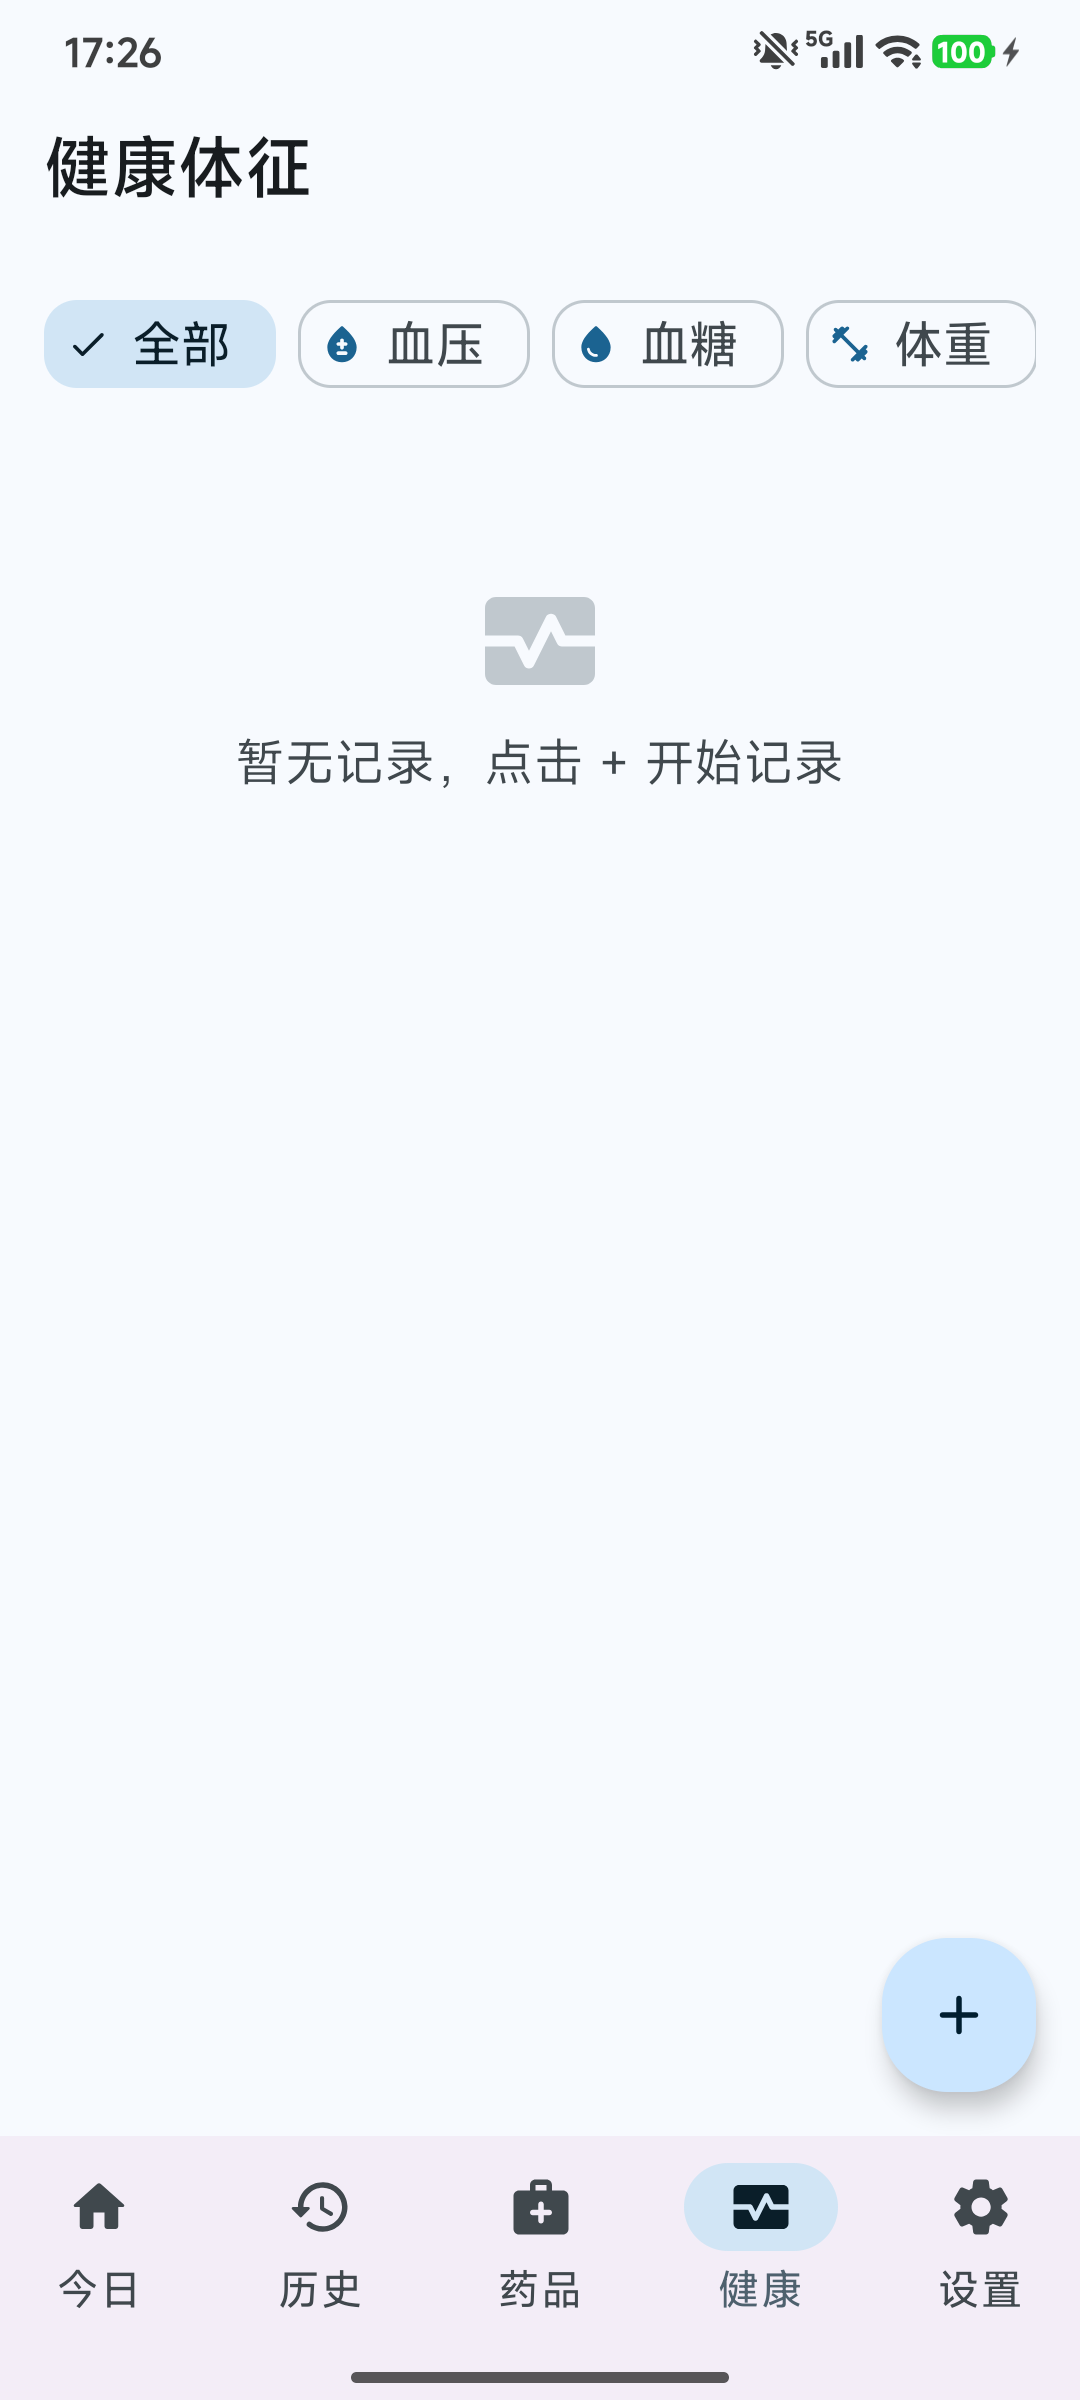
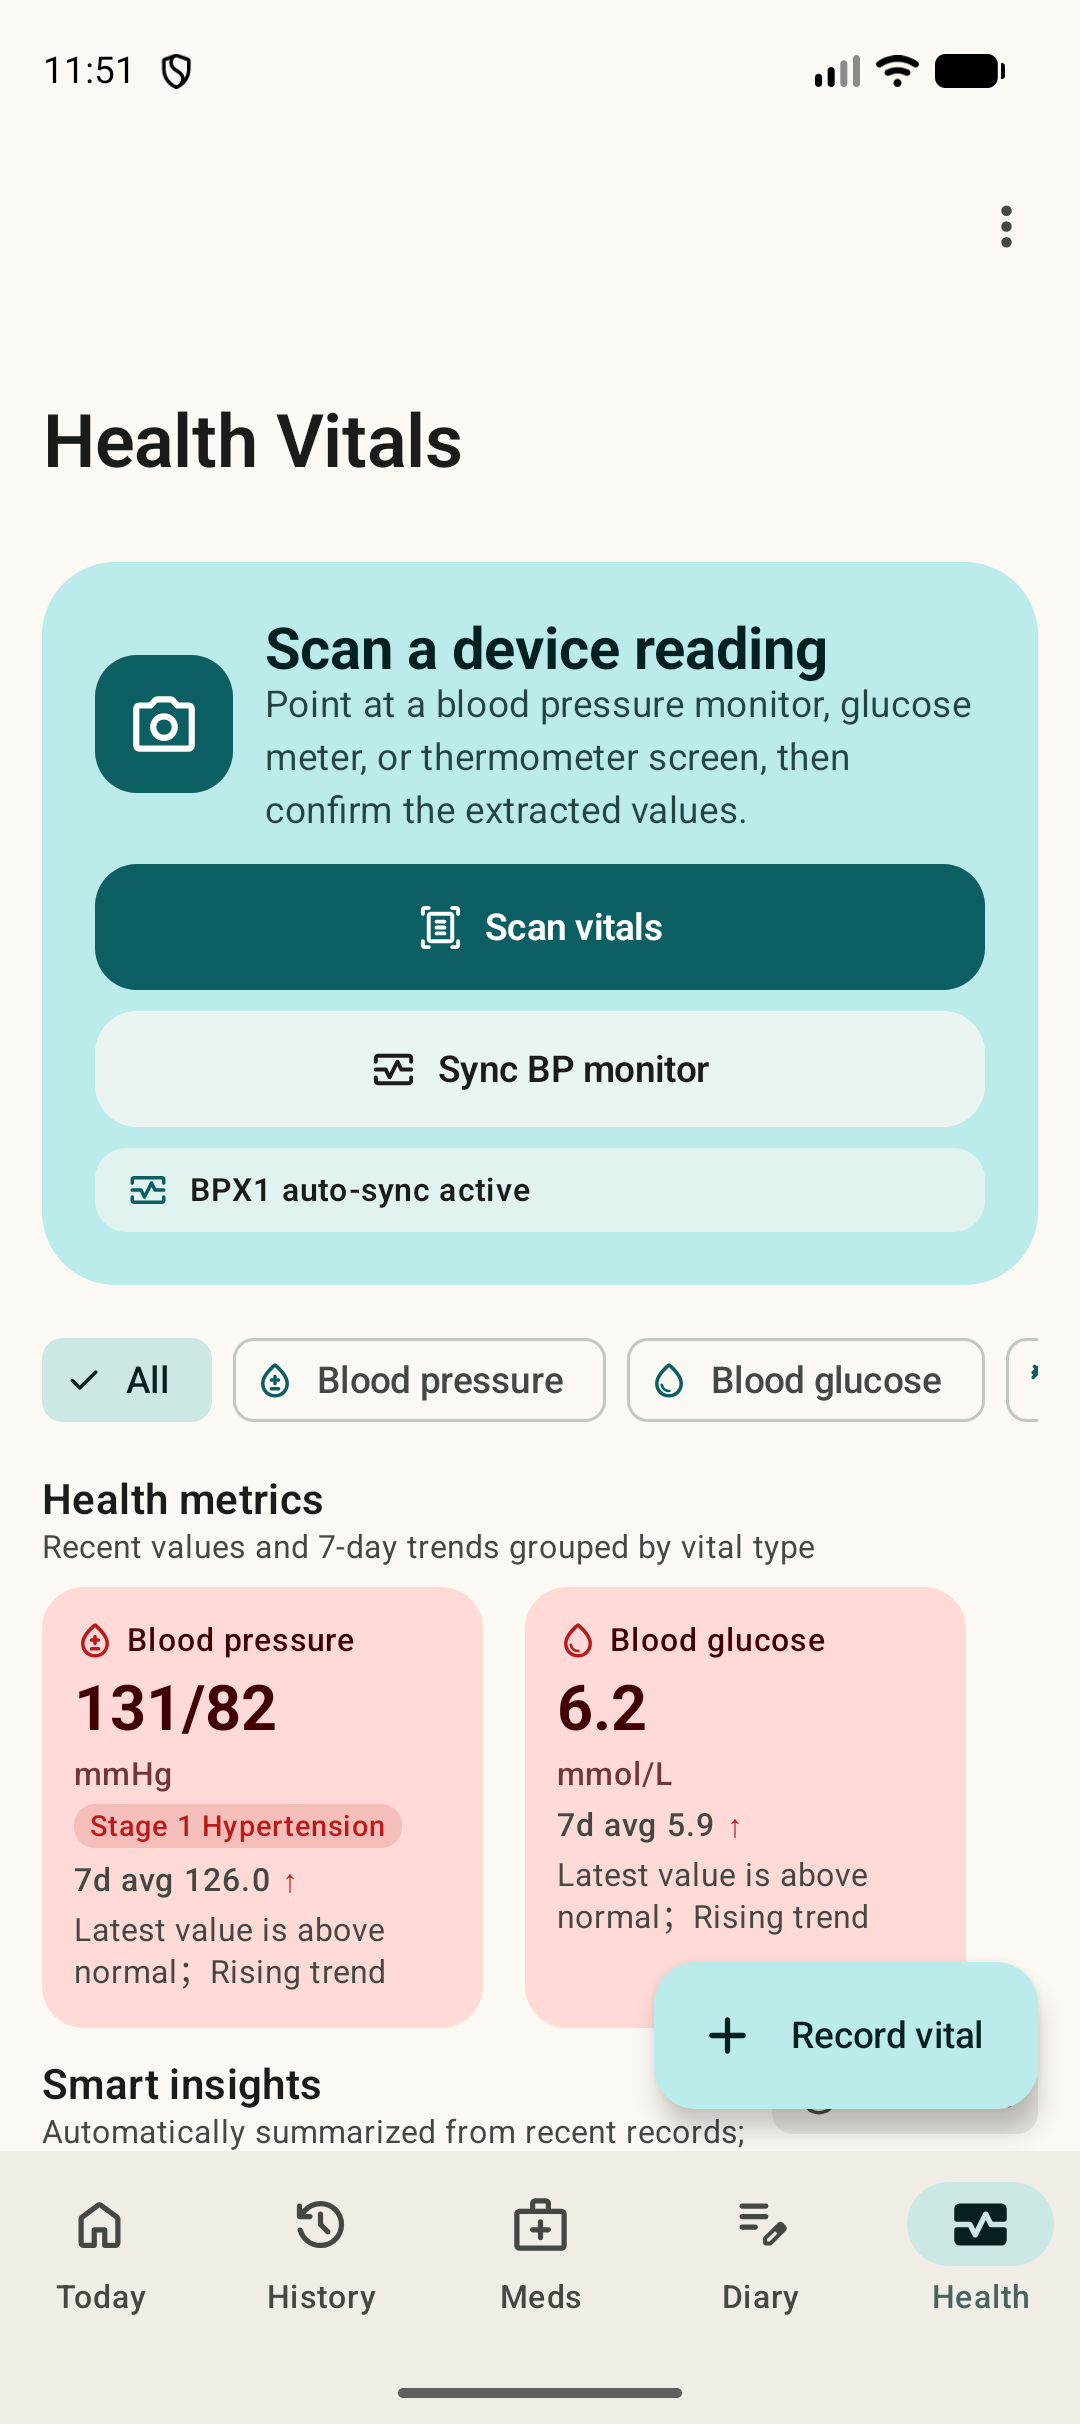
Refresh README with current screenshots and trim content (#30)

diff --git a/README.md b/README.md
@@ -12,347 +12,70 @@
   <a href="https://github.com/Tinnci/anshin/releases/latest">
     <img src="https://img.shields.io/github/v/release/Tinnci/anshin?label=Latest%20Release&color=4CAF50" alt="Latest Release">
   </a>
-  <img src="https://img.shields.io/badge/Kotlin-2.4.20-7F52FF?logo=kotlin&logoColor=white" alt="Kotlin">
   <img src="https://img.shields.io/badge/Material%203-Expressive-6750A4?logo=material-design&logoColor=white" alt="Material 3">
   <img src="https://img.shields.io/badge/Min%20SDK-26-brightgreen?logo=android&logoColor=white" alt="Min SDK">
   <img src="https://img.shields.io/badge/License-Apache%202.0-blue" alt="License">
 </p>
 
-> **Anshin** (*an-shin*) — *Adherence & Notification System for Health Intelligence*
-> 中文：安心用药，不再遗忘 · 日本語：安心して服薬管理 · 한국어：안심하고 복약 관리
+<p align="center">
+  <img src="screenshots/today.png" width="170" alt="Today">
+  <img src="screenshots/history.png" width="170" alt="History">
+  <img src="screenshots/meds.png" width="170" alt="Medications">
+  <img src="screenshots/journal.png" width="170" alt="Wellbeing journal">
+  <img src="screenshots/health.png" width="170" alt="Health vitals">
+</p>
 
-A native Android app built with **Kotlin · Jetpack Compose · Material 3 Expressive**,
-helping users track daily medication, manage inventory, and stay on schedule with precise alarms.
-
----
+A native Android app built with **Kotlin · Jetpack Compose · Material 3 Expressive** that helps you
+take the right dose at the right time, keep stock in check, and track vitals in one place.
 
 ## Features
 
-| Feature | Description |
-|---------|-------------|
-| **Onboarding** | 6-page spring-animated guide — routine times, feature toggles, theme selection |
-| **Today's Doses** | Dashboard with per-period grouping, progress ring, one-tap mark-all, auto-collapse |
-| **Status Tracking** | Taken / Skipped / Undo per dose with automatic stock deduction & restoration |
-| **Precise Reminders** | AlarmManager exact alarms; direct Taken / Skip actions in the notification |
-| **Routine-based Timing** | 11 fuzzy time periods (morning, before/after meals, bedtime…) mapped to personal schedule |
-| **PRN (As-Needed)** | Separate section for on-demand medications with interval tracking |
-| **History & Heatmap** | 90-day scrollable log; calendar heatmap with daily adherence rates |
-| **Streak Tracking** | Current & longest adherence streaks displayed on the home screen |
-| **Medication Management** | Add / Edit / Archive / Delete; dose, form, frequency, category, notes |
-| **Stock Tracking** | Inventory counter + refill threshold; proactive low-stock banner alert |
-| **Health Records** | Blood pressure, blood sugar, weight, temperature logging with trend charts |
-| **Symptom Diary** | Daily symptom & side-effect journaling with preset quick-picks |
-| **Drug Database** | Browse 7,000+ Chinese/TCM drug catalog for quick medication adding |
-| **Interaction Check** | Automatic multi-drug co-administration risk detection with severity levels |
-| **QR Share** | Export today's status or full medication plan as QR code for backup / sharing |
-| **Plan Import** | Scan QR to import another user's medication plan (merge or replace) |
-| **Homescreen Widgets** | Three Glance widgets — Today overview, Next dose, Streak counter |
-| **Adaptive Layout** | Phone → Tablet → Desktop auto-switching (bottom bar / rail / drawer) |
-| **Alarm Recovery** | All alarms re-scheduled after reboot via `BootReceiver` |
-| **Travel Mode** | Keep hometown-timezone reminders when traveling across time zones |
-| **Personalization** | Routine times, early reminder offset, persistent reminder, dark/light/auto theme, dynamic color |
-| **i18n** | Full Chinese / English / Japanese / Korean support (800+ localized resources) |
-
----
-
-## Screenshots
-
-<p align="center">
-  <img src="screenshots/home.png" width="180" alt="Today's doses">
-  <img src="screenshots/history.png" width="180" alt="History & heatmap">
-  <img src="screenshots/drugs.png" width="180" alt="Drug database">
-</p>
-<p align="center">
-  <img src="screenshots/diary.png" width="180" alt="Symptom diary">
-  <img src="screenshots/health.png" width="180" alt="Health records">
-  <img src="screenshots/settings.png" width="180" alt="Settings">
-</p>
-
----
-
-## Tech Stack
-
-| Layer | Technology |
-|-------|-----------|
-| Language | Kotlin 2.4.20 |
-| Build | Gradle 9.6.0 · AGP 9.4.1 · KSP 2.3.12 |
-| UI | Jetpack Compose (BOM 2026.09.00) · Material 3 Expressive 1.5.0-alpha20 |
-| Adaptive Nav | `material3-adaptive-navigation-suite` 1.2.0 |
-| State | Kotlin Coroutines 1.11.0 · StateFlow · `collectAsStateWithLifecycle` |
-| Database | Room 2.8.5 (KSP, historical migrations and exported schemas) |
-| Preferences | Jetpack DataStore 1.2.1 |
-| DI | Hilt 2.60.1 + HiltViewModel |
-| Background | WorkManager 2.12.0 + AlarmManager (exact) |
-| Navigation | Navigation Compose 2.10.2 (type-safe serialized routes) |
-| Widgets | Glance 1.1.1 (Compose-based homescreen widgets) |
-| Camera / QR | CameraX 1.6.1 · ML Kit Barcode 17.3.0 · ZXing 3.5.4 |
-| Animation | `Animatable` · Spring/tween physics · `AnimatedVisibility` · `MotionScheme` |
-| Code Quality | ktlint Gradle 14.2.0 · Android Lint · EditorConfig |
-| Testing | JUnit 4 · Mockito-Kotlin 6.3.0 · Turbine 1.2.1 |
-| Min / Target SDK | 26 / 37 |
-
----
-
-## Maintained Docs
-
-- [ktlint performance and local checks](docs/ktlint.md):
-  use `bun scripts/ktlint-changed.ts` to check source sets affected by staged,
-  unstaged, and untracked files. CI continues to run full `ktlintCheck`.
-
-- [Android UI and dependency review](docs/android-ui-review.md): source review,
-  dependency compatibility, accessibility follow-ups, and validation limits.
-- [Medication daily flow](docs/medication-daily-flow.md): scheduling, dose records,
-  inventory, undo, and verification entry points.
-- [Architecture governance](docs/architecture-governance.md): module/layer
-  boundaries, architecture decisions, persistence policy, and
-  verification gates.
-- [Release signing](docs/releasing.md): local signing setup, CI secrets,
-  tag conventions, and version codes.
-- [OCR model evaluation](seven_segment_ocr/MODEL_EVALUATION.md): current OCR
-  candidates, benchmark schema, evaluator notes, and maintained conclusions.
-- [OCR pipeline design](seven_segment_ocr/PIPELINE_DESIGN.md): headless
-  pipeline, PySide6 console boundary, Kaggle packaging, and dataset rules.
-
-Project notes should be folded into these topic documents instead of adding
-root-level work logs or calendar-named Markdown files.
-
-## Git Identity
-
-Local commits sync their author and committer identity from the active GitHub
-CLI account before each commit:
-
-```bash
-gh auth switch -u Tinnci
-git commit
-```
-
-The global hooks in `~/.config/git/hooks` sync repository-local identity from the
-active GitHub CLI account. Pre-commit syncs configuration, post-commit corrects
-the commit identity if needed, and pre-push checks the active account again.
-This repository requires `hooks.expectedGhAccount=Tinnci`. Unknown or
-unauthenticated accounts are rejected instead of using a personal email.
-
-Known accounts:
-
-- `Tinnci` -> `23432137+Tinnci@users.noreply.github.com`
-- `shisoratsu` -> `277485761+shisoratsu@users.noreply.github.com`
-
-When pushing this repository, switch to Tinnci first and restore the previous
-active account after the push. Global hooks chain `.githooks/pre-commit` and
-`.githooks/pre-push`: the local hooks check Kotlin changes before commit and
-run unit tests for source/build changes before push. Keep the global hooks path;
-`setup-hooks.sh` switches to local hooks and would bypass the global identity hooks.
-
----
-
-## Architecture
-
-**Modular monolith · MVVM + UDF · SSOT (Single Source of Truth)**
-
-```
-:app (composition, navigation, Android infrastructure)
- ├── :feature:onboarding
- ├── :capability:reminders
- ├── :core:model
- ├── :core:database
- ├── :core:preferences
- └── :core:ui
-
-:feature:onboarding ──> :core:preferences ──> :core:model
-:capability:reminders ──────────────────────> :core:model
-:app tests ─────────────────────────────────> :core:testing
-```
-
-**Key patterns:**
-
-- **SSOT + projections**: Room/DataStore are durable truth; alarms, notifications, and widgets are idempotently rebuilt from it.
-- **Page-level UDF**: complex routes expose immutable `UiState`, `UiAction`, buffered `UiEffect`, and one `onAction` entry point. Content composables do not depend on ViewModels.
-- **Typed domain**: medication/occurrence IDs and schedule variants are pure Kotlin models; legacy Room strings are interpreted only by persistence mappers.
-- **Focused preferences**: appearance, reminders, features, AI, widgets, and onboarding have narrow typed ports over one atomic DataStore.
-- **Application commands**: UI, notification, and Widget actions share the same transactional, idempotent dose commands.
-
-See [Architecture governance](docs/architecture-governance.md) for dependency rules, ADRs, migration policy, and verification gates.
-
-**Adaptive navigation** auto-selects based on `WindowWidthSizeClass`:
-
-| Screen Width | Navigation Component |
-|-------------|----------------------|
-| Compact | `BottomNavigationBar` |
-| Medium | `NavigationRail` |
-| Expanded | `PermanentNavigationDrawer` |
-
----
-
-## Project Structure
-
-```
-core/
-├── model/              # typed IDs/schedules plus pure time, streak, reminder rules
-├── database/           # Room entities, DAOs, migrations, exported schemas
-├── preferences/        # typed values and focused preference ports
-├── ui/                 # behavior-free screen descriptors
-└── testing/            # reusable coroutine/JUnit support
-feature/
-└── onboarding/         # onboarding domain language and draft
-capability/
-└── reminders/          # reminder projection ports and reconcile reasons
-app/src/main/java/com/driezy/medlog/
-├── data/               # DataStore, assets, and repository implementations
-├── feature/
-│   ├── medications/    # editor, catalog, detail, home, application commands
-│   ├── history/        # adherence history and projections
-│   ├── health/         # records, journal, health application logic
-│   ├── settings/       # focused settings routes/ViewModels and backup command
-│   └── onboarding/     # Route/Content/ViewModel and completion orchestration
-├── capability/
-│   ├── reminders/      # AlarmManager, notifications, Worker, receivers
-│   ├── widgets/        # Glance projections and shared command adapters
-│   ├── ai/             # cloud clients and key storage
-│   ├── ocr/            # camera/ML Kit/ONNX adapters
-│   └── bpx1/           # BLE adapter and protocol
-└── ui/navigation/      # app composition and type-safe routes
-```
-
----
+- **Today** — an "Up next" hero, grouped daily plan, one-tap Take / Skip / Undo, and streaks.
+- **Precise reminders** — exact alarms with Taken / Skip actions in the notification, restored after reboot.
+- **Flexible schedules** — exact times or fuzzy periods (after breakfast, bedtime…), PRN doses, travel-mode time zones.
+- **History** — 30-day adherence, streaks, and a calendar heatmap.
+- **Medications** — dose, form, category, stock and refill alerts, a 7,000+ drug catalog, and interaction checks.
+- **Health vitals** — blood pressure, glucose, weight and more with trends and on-device smart insights.
+- **Device readings** — scan monitor screens with OCR, or auto-sync a BPX1 blood pressure monitor over Bluetooth.
+- **Wellbeing journal** — daily mood, symptom and side-effect notes.
+- **Share & backup** — QR export/import of plans, homescreen widgets, adaptive phone/tablet layouts.
+- **Languages** — English, 中文, 日本語, 한국어.
 
 ## Getting Started
 
-### Prerequisites
-
-- **JDK 17+** (CI uses JDK 21)
-- **Android SDK 37** (build-tools 37.0.0)
-- **Android Studio** compatible with the AGP version in `gradle/libs.versions.toml`
-  (or command-line only)
-
-### Build
+Requires JDK 17+ (CI uses 21) and Android SDK 37.
 
 ```bash
-# Clone
 git clone https://github.com/Tinnci/anshin.git
 cd anshin
-
-# Create local.properties (auto-detected if using Android Studio)
-echo "sdk.dir=/path/to/android-sdk" > local.properties
-
-# Build debug APK
-./gradlew assembleDebug
-
-# Install on device/emulator
-./gradlew installDebug
-
-# Run unit tests
-./gradlew test
+./gradlew installDebug      # build and install on a device/emulator
+./gradlew test              # unit tests
+./gradlew ktlintCheck lintDebug
 ```
 
-### Release Signing
+Release signing and tagging are documented in [docs/releasing.md](docs/releasing.md).
+Pushing a `vX.Y.Z` tag from `main` triggers the signed release workflow.
 
-See [Release signing](docs/releasing.md) for full setup.
+## Architecture
 
-**Quick summary:**
-- Local: `local.properties` with `KEYSTORE_PATH`, `KEYSTORE_PASSWORD`, `KEY_ALIAS`, `KEY_PASSWORD`
-- CI: GitHub Secrets (`KEYSTORE_BASE64`, `KEYSTORE_PASSWORD`, `KEY_ALIAS`, `KEY_PASSWORD`)
-- Local builds without keys: graceful fallback to unsigned APK; GitHub Releases require all signing Secrets
+Modular monolith with MVVM + UDF and a single source of truth: Room and DataStore are durable truth;
+alarms, notifications and widgets are rebuilt from them.
 
-```bash
-# macOS one-liner (iCloud Drive + Keychain)
-./scripts/setup-signing.sh
+```
+:app ─┬─ :feature:onboarding
+      ├─ :capability:reminders
+      ├─ :core:model · :core:database · :core:preferences · :core:ui
 ```
 
----
-
-## Code Quality
-
-```bash
-./gradlew ktlintCheck    # lint check
-./gradlew ktlintFormat   # auto-fix
-./gradlew lintDebug      # Android Lint (report: app/build/reports/lint-results-debug.html)
-```
-
-### Local checks
-
-```bash
-bun scripts/ktlint-changed.ts            # source sets affected by local changes
-bun scripts/ktlint-changed.ts --dry-run  # inspect the selected tasks
-bun test scripts/ktlint-changed.test.ts  # check task selection behavior
-```
-
-CI runs full ktlint, tests, Android Lint, and builds. Run full Android Lint locally:
-
-```bash
-./gradlew lintDebug
-```
-
----
-
-## CI / CD
-
-| Workflow | Trigger | Steps | Artifact |
-|----------|---------|-------|---------|
-| [CI Build](.github/workflows/build.yml) | push / PR to `main` | ktlint → test → lint → build | Debug APK + reports |
-| [Release](.github/workflows/release.yml) | `main` commit tagged `v*.*.*` | validate → test → lint → sign → verify → release | Signed ABI APKs + SHA-256 checksums |
-
-**Release flow:**
-
-```bash
-git tag v1.2.0
-git push origin v1.2.0   # triggers Release workflow
-```
-
-The release workflow automatically:
-1. Validates tag format and main ancestry, then derives version values using the [release version rules](docs/releasing.md#versioncode-规则)
-2. Runs ktlint, unit tests, lint, and instrumented-test compilation
-3. Requires the complete signing secret set and decodes a temporary Keystore
-4. Builds three signed ABI APKs and cleans up the temporary Keystore
-5. Verifies every APK with `apksigner` and generates `SHA256SUMS`
-6. Generates changelog from commits since the previous reachable tag
-7. Creates a GitHub Release with the APKs and checksums attached
-
-Pre-release tags (`-rc`, `-beta`, `-alpha`) are automatically marked as GitHub pre-releases.
-
----
-
-## Internationalization
-
-| Locale | Status | Resource Count |
-|--------|--------|---------------|
-| 🇨🇳 Chinese (default) | ✅ Complete | 802 |
-| 🇬🇧 English | ✅ Complete | 802 |
-| 🇯🇵 Japanese | ✅ Complete | 813 |
-| 🇰🇷 Korean | ✅ Complete | 813 |
-
-All Compose screens are fully extracted — zero hardcoded strings in UI files.
-Resources include `<string>`, `<plurals>`, and `<string-array>` entries.
-
-> **Contributions welcome:** To translate Anshin into your language,
-> open an issue or PR with `app/src/main/res/values-{lang}/strings.xml`.
-
----
+See [Architecture governance](docs/architecture-governance.md) for boundaries and verification gates, and
+[Medication daily flow](docs/medication-daily-flow.md) for scheduling and dose records.
 
 ## Contributing
 
-Contributions are welcome in any language.
-
-1. Fork → feature branch → PR
-2. Pass `ktlintCheck` and `lintDebug` before submitting
-3. Follow the existing MVVM + SSOT + Clean Architecture patterns
-4. Add unit tests for new domain/ViewModel logic
-
----
+Fork → feature branch → PR. Run `ktlintCheck` and `lintDebug` first, follow the existing architecture,
+and add tests for new domain or ViewModel logic. Translations are welcome via
+`app/src/main/res/values-{lang}/`.
 
 ## License
 
-```
-Copyright 2025 tinnci
-
-Licensed under the Apache License, Version 2.0 (the "License");
-you may not use this file except in compliance with the License.
-You may obtain a copy of the License at
-
-    https://www.apache.org/licenses/LICENSE-2.0
-
-Unless required by applicable law or agreed to in writing, software
-distributed under the License is distributed on an "AS IS" BASIS,
-WITHOUT WARRANTIES OR CONDITIONS OF ANY KIND, either express or implied.
-See the License for the specific language governing permissions and
-limitations under the License.
-```
+Apache License 2.0 — see https://www.apache.org/licenses/LICENSE-2.0.
